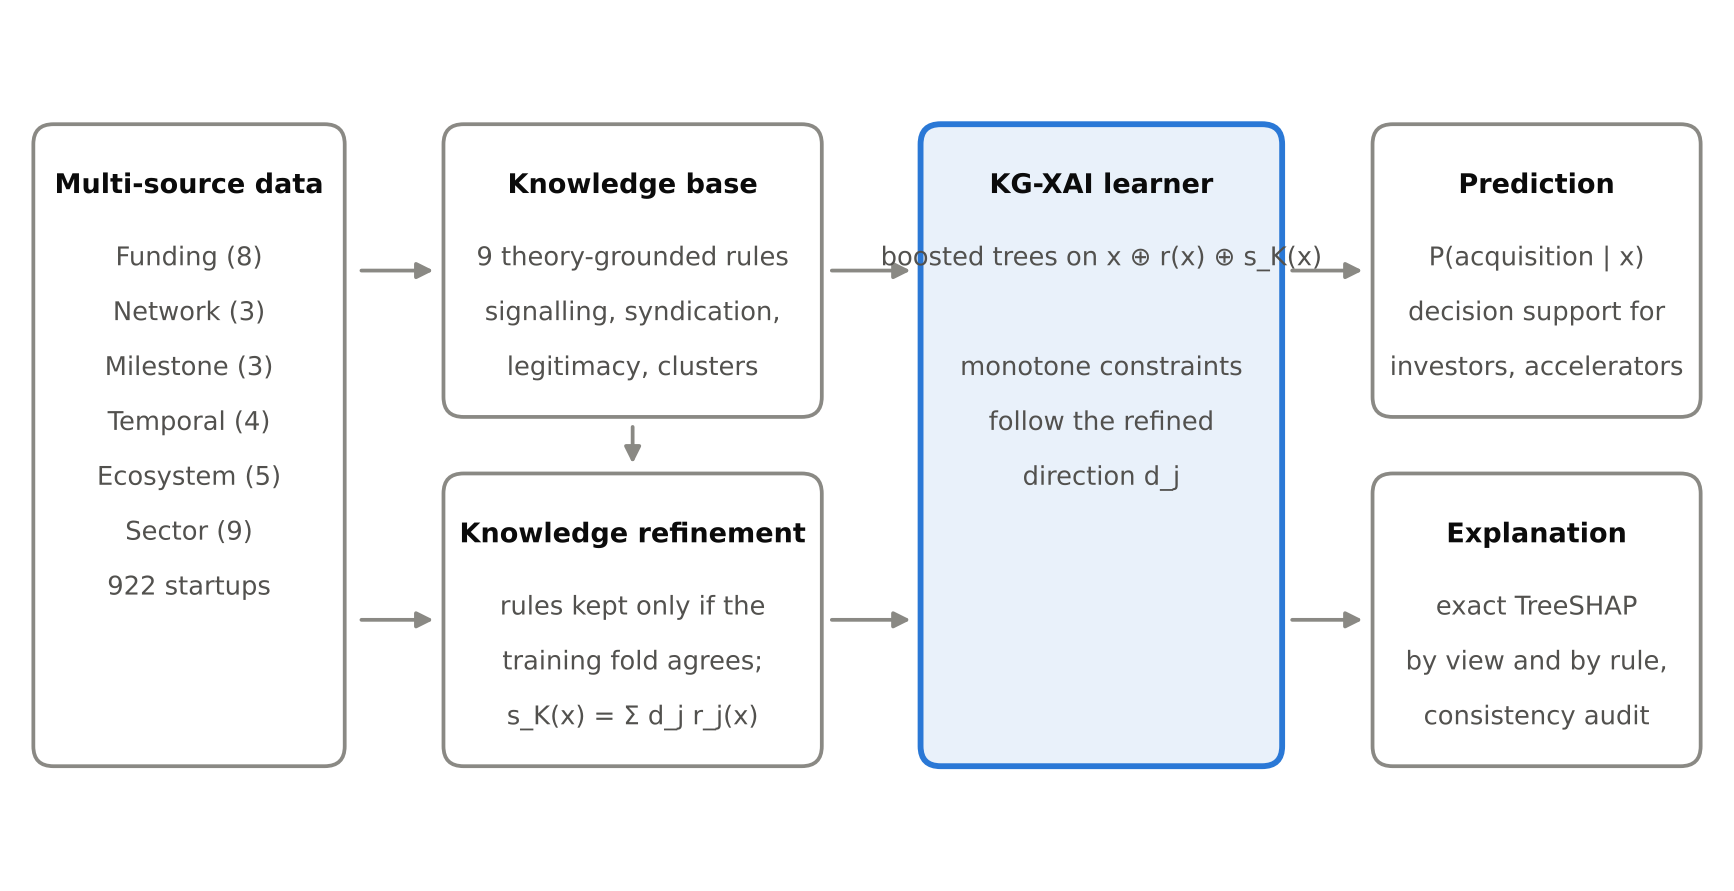
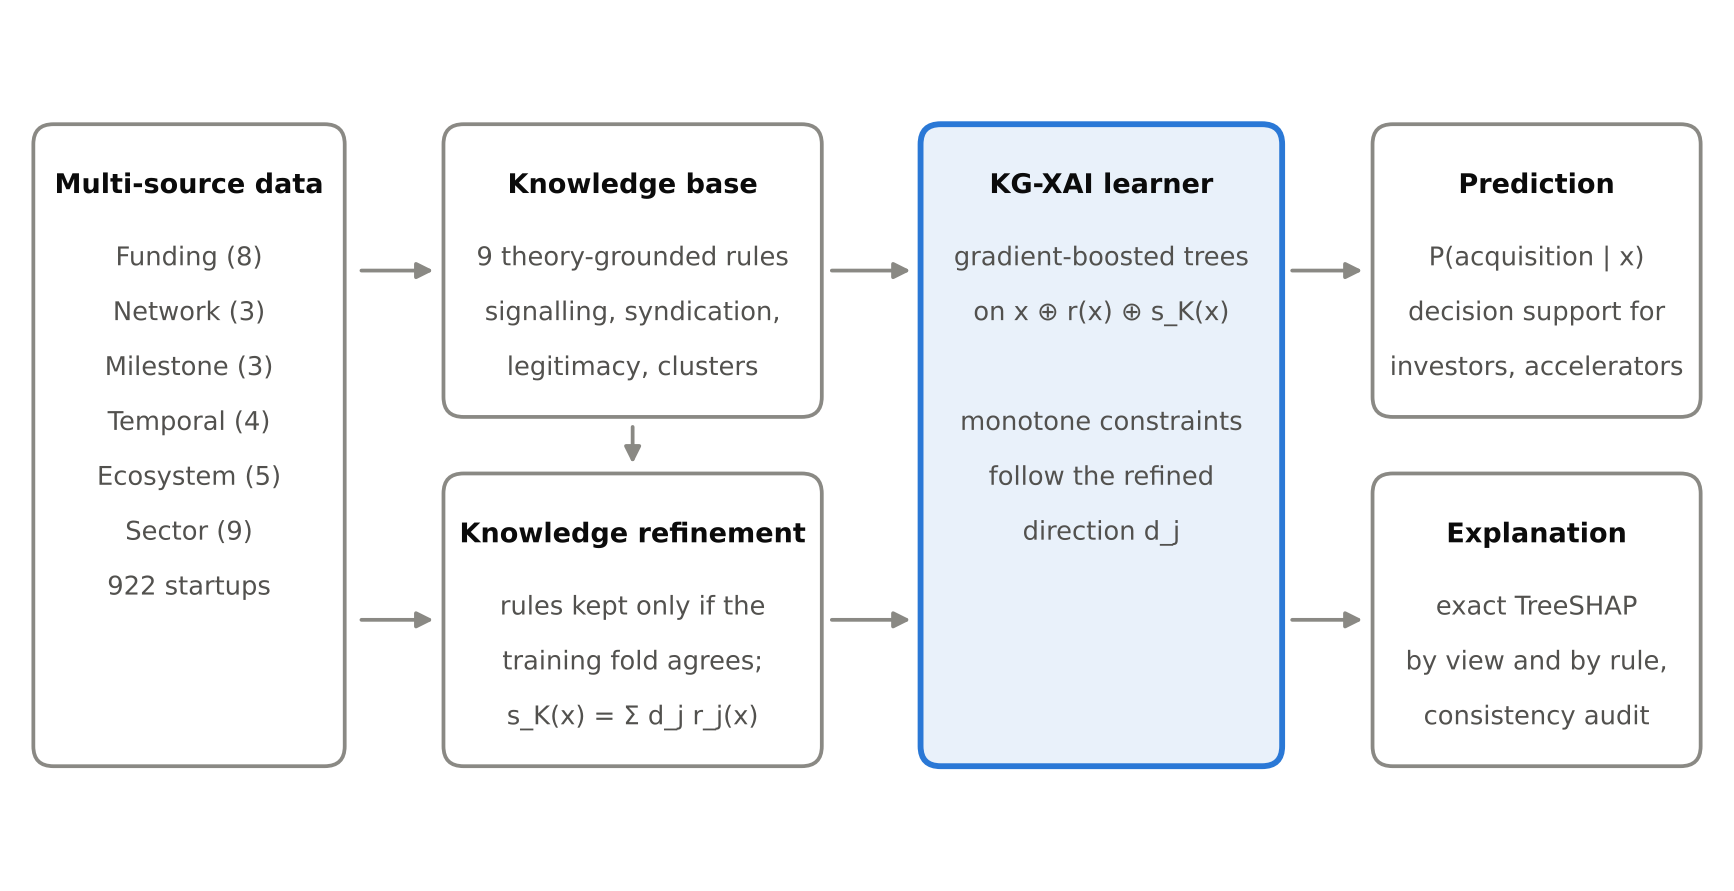
Fix Figure 1: wrap learner input line inside its box
Claude-Session: https://claude.ai/code/session_01FUfQhUQkTnUuiP2KzQ16Cr

diff --git a/kgxai.py b/kgxai.py
@@ -367,8 +367,8 @@ def figure1(n, out):
                                            "legitimacy, clusters"])
     box(25, 6, 22, 17, "Knowledge refinement", ["rules kept only if the", "training fold agrees;",
                                                 "s_K(x) = Σ d_j r_j(x)"])
-    box(53.5, 6, 21, 38, "KG-XAI learner", ["boosted trees on x ⊕ r(x) ⊕ s_K(x)", "",
-                                                   "monotone constraints", "follow the refined", "direction d_j"],
+    box(53.5, 6, 21, 38, "KG-XAI learner", ["gradient-boosted trees", "on x ⊕ r(x) ⊕ s_K(x)", "",
+                                            "monotone constraints", "follow the refined", "direction d_j"],
         accent=True)
     box(80.5, 27, 19, 17, "Prediction", ["P(acquisition | x)", "decision support for", "investors, accelerators"])
     box(80.5, 6, 19, 17, "Explanation", ["exact TreeSHAP", "by view and by rule,", "consistency audit"])
